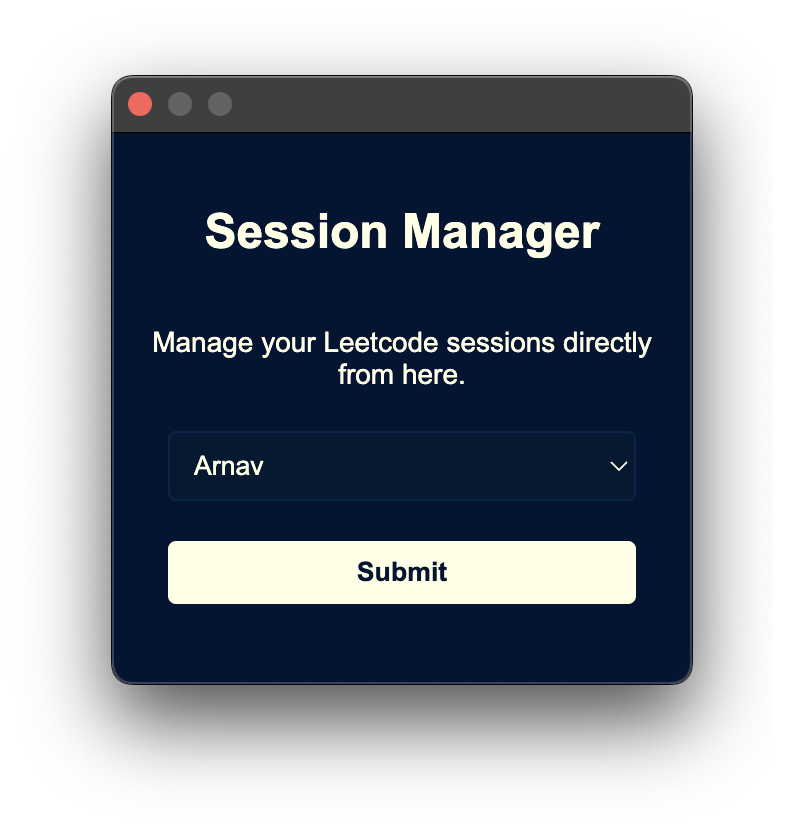
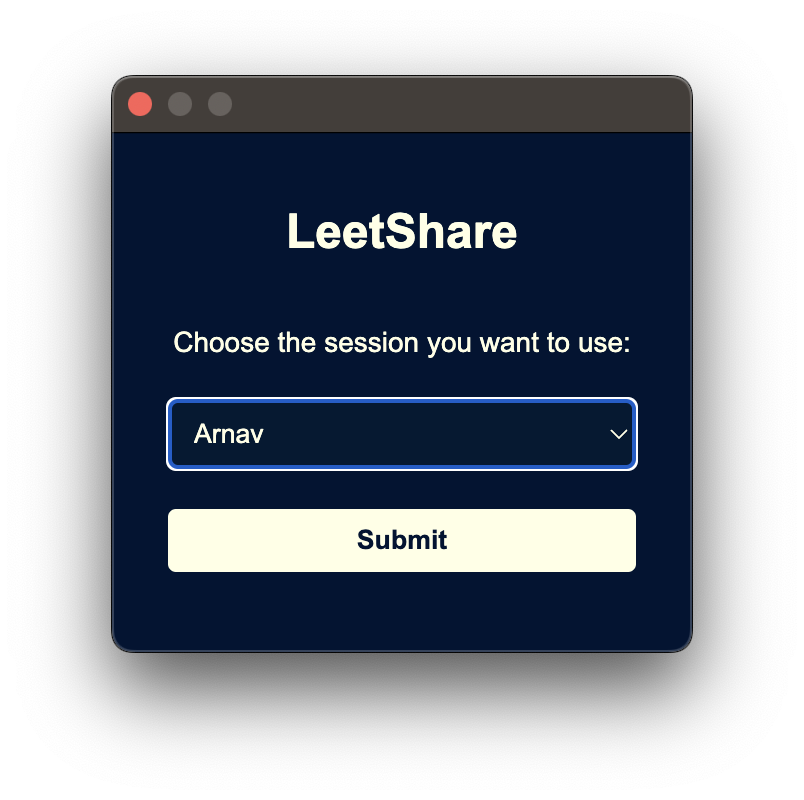
Change some text and image

diff --git a/popup.html b/popup.html
@@ -55,12 +55,13 @@
         color: #ffffe4;
         font-size: 14px;
         display: none;
+        padding: 5px 0;
       }
     </style>
   </head>
   <body>
-    <h1>Session Manager</h1>
-    <p>Manage your Leetcode sessions directly from here.</p>
+    <h1>LeetShare</h1>
+    <p>Choose the session you want to use:</p>
     <select id="sessionDropdown"></select>
     <button id="submitBtn">Submit</button>
     <div id="successMessage">Success: Preferences saved!</div>
